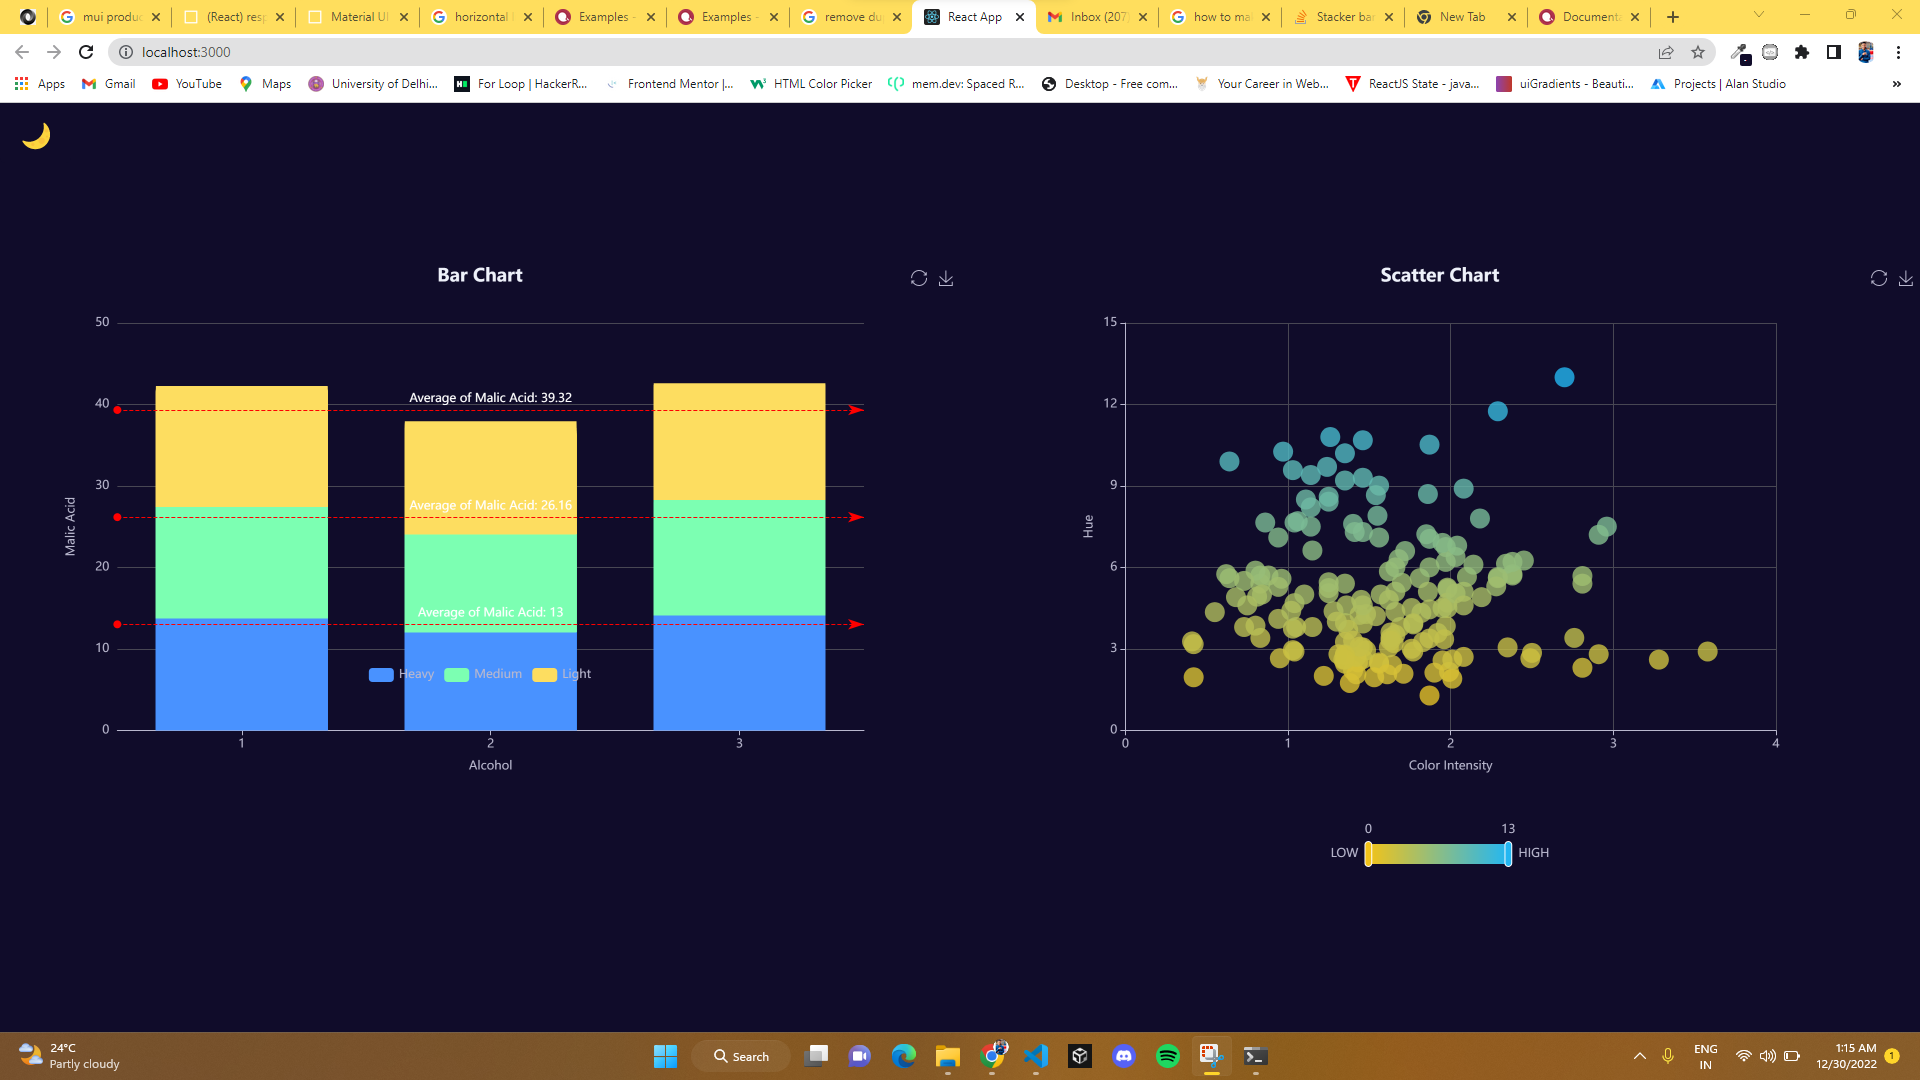
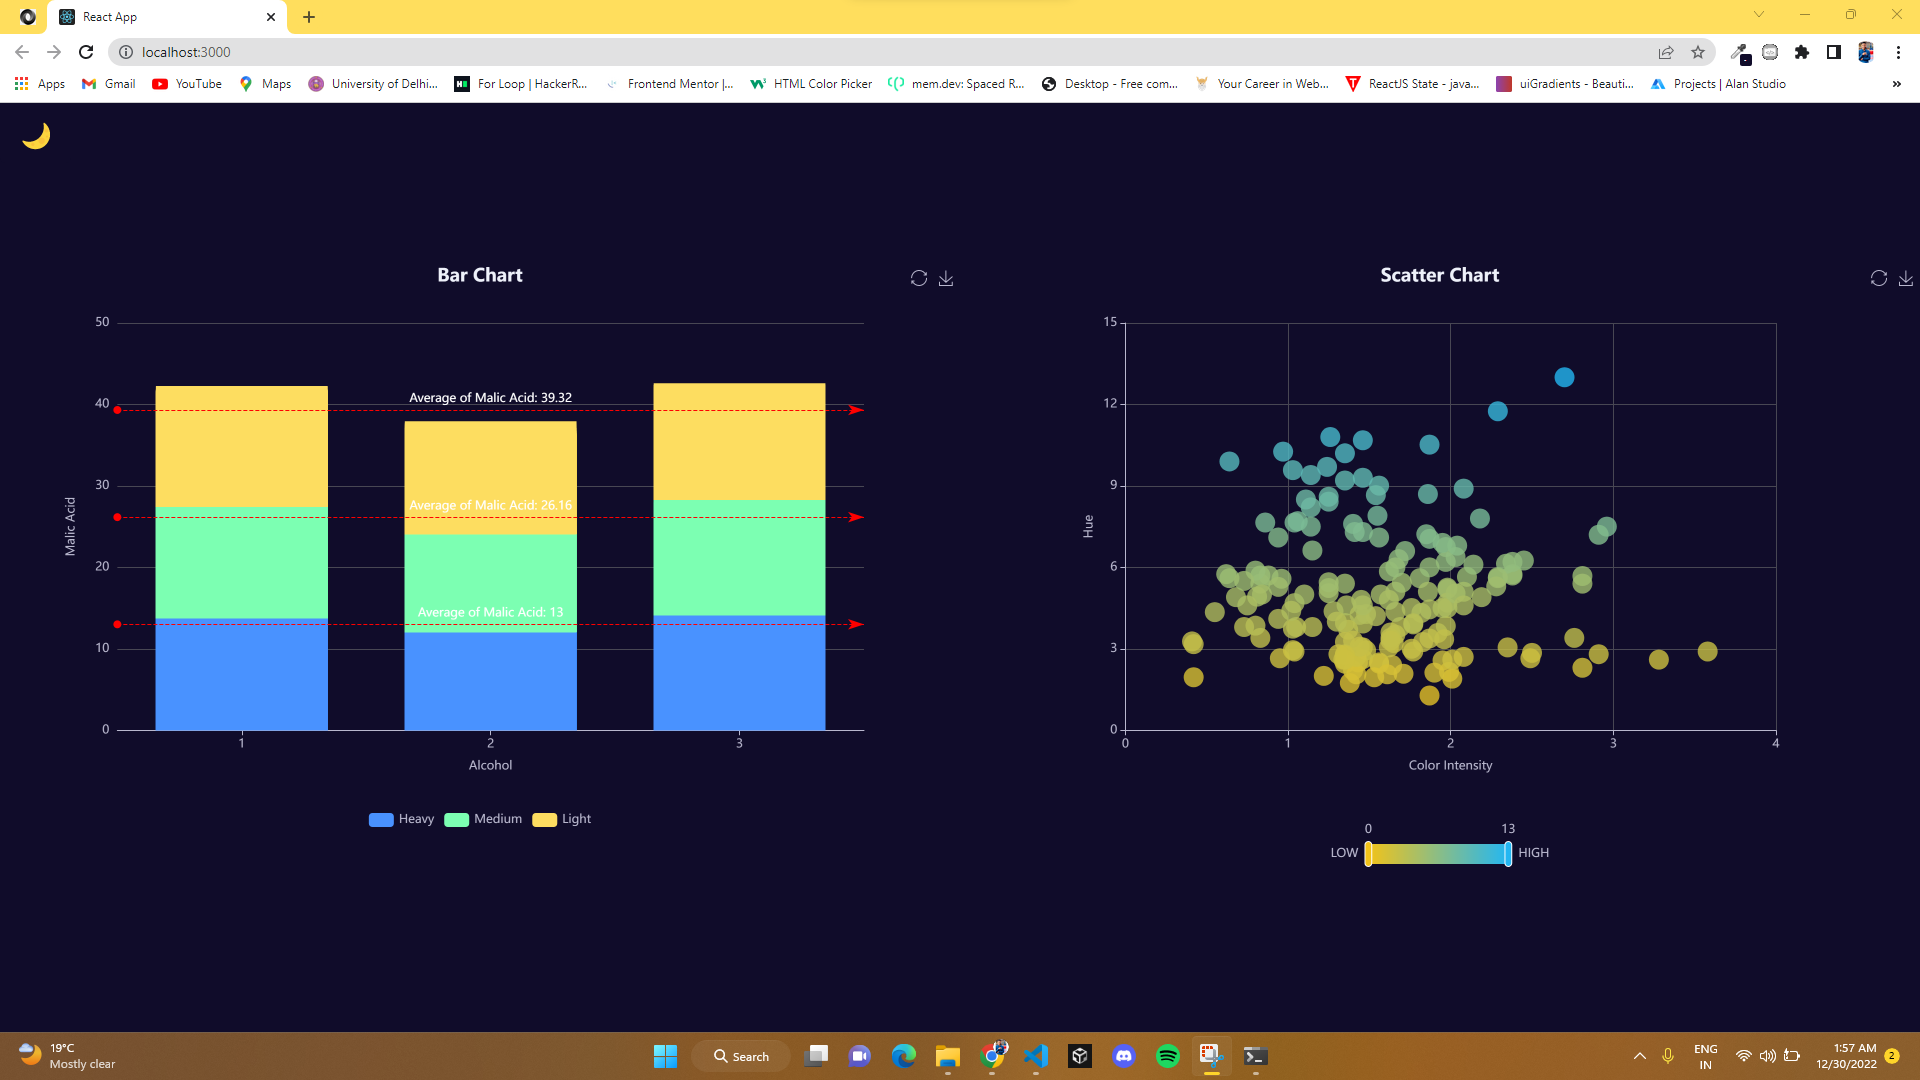
fixed bar chart

diff --git a/src/app/Components/BarChart.tsx b/src/app/Components/BarChart.tsx
@@ -19,8 +19,7 @@ export function BarChart({ data, theme }: BarChartProps): JSX.Element {
       // },
     },
     legend: {
-      top: 400,
-      bottom: "center",
+      bottom: 40,
     },
     toolbox: {
       show: true,
